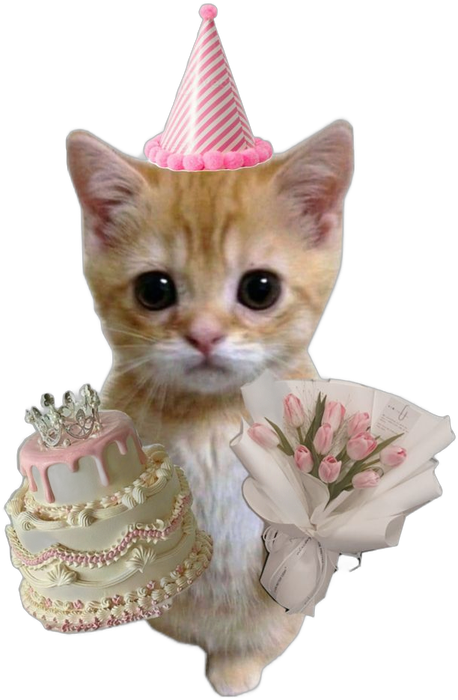
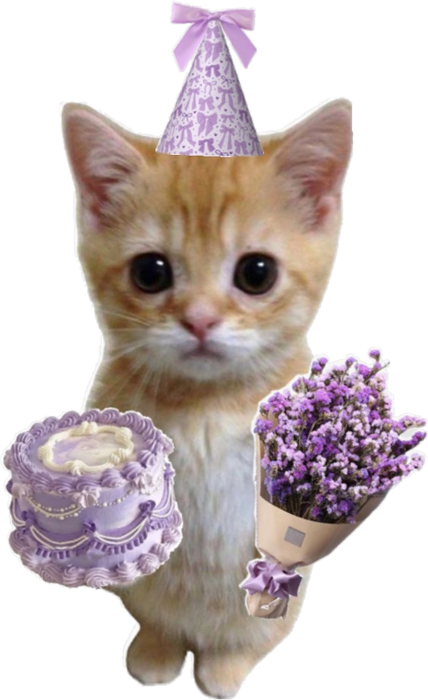
New lavender party cat on last page
Claude-Session: https://claude.ai/code/session_01JHJJcLAC4CwGWv3NsWBuCf

diff --git a/index.html b/index.html
@@ -309,7 +309,7 @@ button.btn,button.btn.ghost{background:#5b2155;color:#fff4ee;border:1px solid #4
 
 <!-- 6. FINAL -->
 <section id="s6">
-  <img class="cat" src="images/cat.png" alt="A kitten in a party hat holding a cake and tulips">
+  <img class="cat" src="images/cat.png" alt="A kitten in a party hat holding a cake and lavender">
   <h1 id="finalTitle">Happy Birthday!</h1>
   <p class="final script" id="finalMsg"></p>
   <div class="nav"><button class="btn ghost" id="back6">← Back</button><button class="btn" id="again">🎉 More confetti</button></div>
